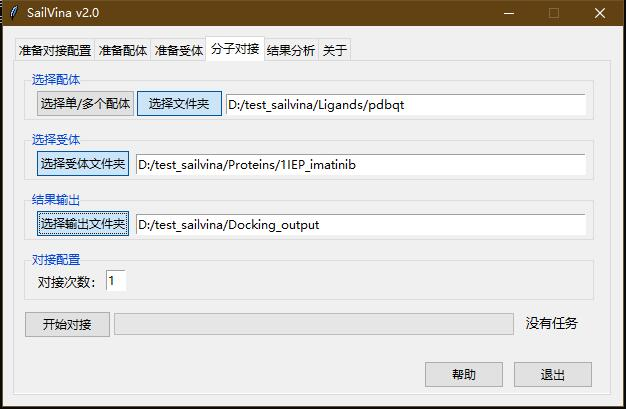
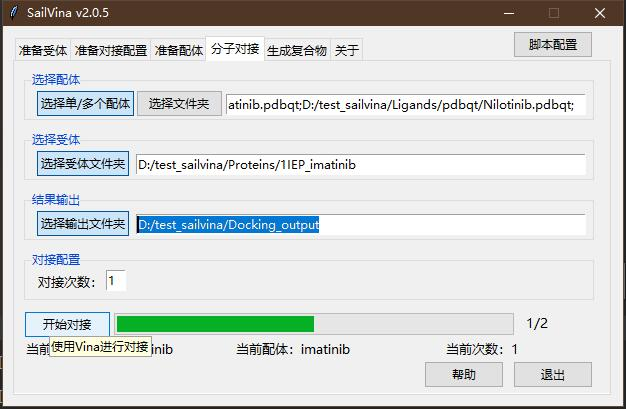
完成参数修改保存检查

diff --git a/SailVina/s_tab.py b/SailVina/s_tab.py
@@ -433,7 +433,7 @@ class Tab2(object):  # 准备配体
         input_files = self.choose_ligands_entry.textvariable.get()
 
         # 判断输入内容不能包含空格
-        if not check.Check.has_space(input_files):
+        if check.Check.has_space(input_files):
             messagebox.showerror("输入错误！", "输入路径不能包含空格！")
             return
 
@@ -568,7 +568,7 @@ class Tab2(object):  # 准备配体
                 self.progress_label.label.configure(text="没有任务")
                 return
 
-        elif input_format == "pdb" and output_format == "pdbqt":  # pdb->pdbqt
+        elif input_format == "pdb" or input_format == "mol2" and output_format == "pdbqt":  # pdb->pdbqt
             print("使用ADT脚本将pdb转换成pdbqt")
             i = 0
             while i < len(input_ligands):

diff --git a/SailVina/main.py b/SailVina/main.py
@@ -1,7 +1,11 @@
 from tkinter import *
-from tkinter.ttk import *
-import configer, s_tab, tooltip, set_config
 from tkinter import messagebox
+from tkinter.ttk import *
+
+import configer
+import s_tab
+import set_config
+import tooltip
 
 
 class MainWindows(object):

diff --git a/README.md b/README.md
@@ -1,22 +1,25 @@
 ## Sail_vina_2.0
 Autodock Vina对接GUI界面
 
-开发中……，已经完成：
+开发中……，已经完成：  
+1. 准备受体
 1. 准备配置文件
 2. 准备配体
 3. 批量对接
 4. 生成配体-蛋白复合物  
 
 下一步计划：  
-1. 准备受体
-2. 作用力分子
+2. 分析作用力
 3. 提取分数，计算RMSD
 
 ---
 ### 软件的安装：  
-方法一：解压main.zip到需要安装的目录，直接运行内部的main.exe文件即可。  
+方法一：下载[main.zip]()到需要安装的目录，直接运行内部的main.exe文件即可。  
+软件界面：  
+![界面](./readme_pic/main_windows.jpg)
 **注意：本软件的解压路径不要包含空格和中文！**  
 方法二：克隆本项目到本地，在SailVina中用python运行main.py
+- 需要requests（下载pdb）、biopython（准备受体）模块，使用pip安装即可。
   
 系统需求：  
 - 安装obabel   
@@ -30,46 +33,65 @@ Autodock Vina对接GUI界面
 ### 教程：伊马替尼以及自定义配体和络氨酸激酶对接
 可以通过本教程测试软件是否配置正确，建议使用同样的文件夹。  
 
-本教程文件夹目录：  
+新建本教程文件夹：  
 D:/test_sailvina/Ligands/mol  
 D:/test_sailvina/Ligands/pdbqt  
 D:/test_sailvina/Proteins/1IEP_imatinib  
 D:/test_sailvina/Docking_output  
 
-1. 去pdbbank[下载1IEP](https://files.rcsb.org/download/1IEP.pdb)蛋白文件放置到D:/test_sailvina/Proteins/1IEP_imatinib
-文件夹下
-![pdb](./readme_pic/pdb_bank.jpg)
-2. 使用autodock tools导出共晶配体，准备受体文件。 
-    - 打开ADT，导入刚下载的蛋白 
-    - Edit - delete water
-    - 选择B链, 然后Edit - Delete - Delete Selected Atoms。（因为AB同源，保留A链进行对接即可）
-    - 选择A链中的CL1、CL2、CL4、CL5，同上删除。（删除氯离子）
-    - 选择STI201，然后Select - Invert Selection，再Edit - Misc - 
-    Split Selection - OK（分离配体和受体蛋白，配体叫1iep，受体叫1iep_copy1）
-    - Ligand - Input - Choose - 弹出选择框 - 双击1iep - 确定（让ADT确定配体）
-    - Ligand - Output - Save as PDBQT（导出共晶配体）
-    保存共晶配体到D:/test_sailvina/Proteins/1IEP_imatinib/co_cystal.pdbqt（
-    ADT的Bug，这里需要手动输入后缀）
-    - Grid - Macromolecule - Choose - 弹出选择框 - 双击1iep_copy1 - 确定（一般弹出-contains no non-bonded atoms表示受体没有问题） - 选择D:/test_sailvina/Proteins/1IEP_imatinib/preped.pdbqt保存（受体一定要保存成这个名字，否则无法识别）
-    - 关闭ADT
-3. 生成对接配置文件
-    - 打开SailVina
-    - 在“准备对接配置”选项卡的“工具”中点击读取共晶配体。选择D:/test_sailvina/Proteins/1IEP_imatinib/co_cystal.pdbqt
-    - 点击计算对接位点 - 确定，参数会变成如下（由于盒子总大小不能超过27000，所以如果过大需要根据实际需求修改盒子大小）  
+0. 配置脚本
+    - 点击脚本配置，点击"选择adt的python路径"，选择ADT中的python.exe。比如C:/DrugDesign/mgltools/python.exe。
+    - 点击"选择obabel.exe的路径"，选择安装的obabel的obabel.exe。比如C:/OpenBabel-2.4.1/obabel.exe。点击确定。
+    ![配置脚本](./readme_pic/setting.jpg)
+    出现路径配置成功表示配置完成。
+1. 下载pdb  
+准备受体界面，下载受体。  
+    - PDBID输入1iep，点击"选择保存的路径"选择D:/test_sailvina/Proteins/1IEP_imatinib，点击开始下载。  
+![下载受体](./readme_pic/download_pdb.jpg)
+2. 准备受体  
+准备受体界面，准备受体。  
+    - 点击"选择受体"，选择D:/test_sailvina/Proteins/1IEP_imatinib/1iep.pdb
+        - 点击"受体信息"可以看到选择受体的基本信息，比如名称，结晶方法，打开文献的网页等  
+  ![pdb信息](./readme_pic/pdb_info.jpg)  
+    - 点击"配体输出路径"，选择D:/test_sailvina/Ligands/pdbqt
+    - 点击"提取配体"。model选择0，下一步，chain选择A，下一步，选择STI点击提取配体。
+    ![提取配体](./readme_pic/exract_ligand.jpg)
+    关闭"提取配体"窗口。
+    - 点击"受体输出路径",选择D:/test_sailvina/Proteins/1IEP_imatinib。点击准备受体。
+    - 会自动检测同源链，点击否不删除同源链（测试发现删除同源链会出现一些问题）
+    ![同源检测](./readme_pic/save_homo.jpg)
+3. 生成对接config文件  
+准备对接配置界面，工具
+    - 点击"读取共晶配体"。选择D:/test_sailvina/Ligands/pdbqt/A_STI.pdbqt
+    - 点击"计算对接位点",点击"确定"，参数会变成如下（由于盒子总大小不能超过27000，所以如果过大需要根据实际需求修改盒子大小）  
     ![co_ligand](./readme_pic/load_co_ligand.jpg)
-    - 点击选择输出目录，选择D:/test_sailvina/Proteins/1IEP_imatinib，点击输出 - 确定
-4. 准备配体
-    - 使用化学作图软件（Chemdraw等）绘制出要对接的配体，保存成mol格式。（作为对接的验证，需要重新绘制原始共晶配体进行再对接re-docking，根据rmsd来判断对接的可靠程度。）本教程绘制2个，伊马替尼和尼洛替尼。保存到D:/test_sailvina/Ligands/mol文件夹中
-    - 在SailVina“准备配体”选项卡中，按照下图配置参数。（脚本配置中的ADT的python路径请选择自己安装的路径）  
-    ![preped_ligand](./readme_pic/preped_ligands.jpg)
-    - 点击“开始转换”等待完成即可。
-5. 分子对接
-    - 在“分子对接选项”卡中按照下图选择  
-    ![docking](./readme_pic/docking.jpg)  
+    - 点击"选择输出目录"，选择D:/test_sailvina/Proteins/1IEP_imatinib，点击"输出"
+    ![输出配置文件](./readme_pic/sava_config.jpg)
+4. 准备配体  
+使用化学作图软件（Chemdraw等）绘制出要对接的配体，保存成mol格式。（作为对接的验证，需要重新绘制原始共晶配体进行再对接re-docking，根据rmsd来判断对接的可靠程度。）本教程绘制2个，伊马替尼和尼洛替尼。保存到D:/test_sailvina/Ligands/mol文件夹中  
+准备配体界面中，输入选项。
+    - 输入格式选择mol
+    - 点击"选择文件夹"，选择D:/test_sailvina/Ligands/mol
+    - 输出选项中，输出格式选择pdbqt，其余保持默认。
+    - 点击"选择输出文件夹", 选择D:/test_sailvina/Ligands/pdbqt。
+    - 点击"开始转换"
+    ![开始转换](./readme_pic/preped_ligands.jpg)
+5. 分子对接  
+分子对接界面中  
+    - 选择配体中，点击"选择单/多个配体",选择imatinib.pdbqt和Nilotinib.pdbqt;
+    - 选择受体中，点击"选择受体文件夹"，选择D:/test_sailvina/Proteins/1IEP_imatinib
+    - 结果输出中，点击"选择输出文件夹"，选择D:/test_sailvina/Docking_output
     - 点击“开始对接”即可进行对接。（由于Vina对接会消耗大量CPU资源，如果出现未响应为正常现象，请等待对接完成）  
-    ![docking_process](./readme_pic/docking_process.jpg)
-6. 结果分析
-    - 目前处于开发阶段，对接结果保存在Docking_output文件夹中，可自行查看分析。  
-    ![docking_result](./readme_pic/docking_result.jpg)  
-    图中绿色为对接配体，蓝色为原始共晶配体，可以看到对接结果还是比较可靠的。  
-    查看作用力，rmsd计算将在后续版本提供。
+    ![对接](./readme_pic/docking.jpg)
+6. 生成共晶配合物  
+生成复合物界面中
+    - 输入格式选择pdbqt，其余保持默认。
+    - 点击"选择单/多个配体"，选择D:/test_sailvina/Docking_output/1IEP_imatinib/imatinib_out1.pdbqt
+    - 点击"选择受体", 选择D:/test_sailvina/Proteins/1IEP_imatinib/preped.pdbqt
+    - 点击"选择输出文件夹",选择D:/test_sailvina/Docking_output
+    - 点击"结合"即可生成配体受体复合物。
+    ![复合物](./readme_pic/complex.jpg)
+    - 将该pdb上传到[plip](https://projects.biotec.tu-dresden.de/plip-web/plip)即可查看分子间作用力（注意这里没有水分子，vina对接也没有水分子）
+    ![plip服务器](./readme_pic/plip.jpg)
+    ![作用力](./readme_pic/plip_interaction.jpg)
+    
